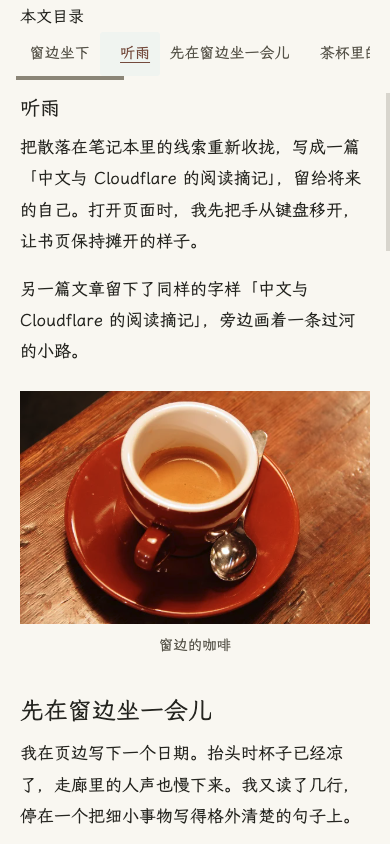
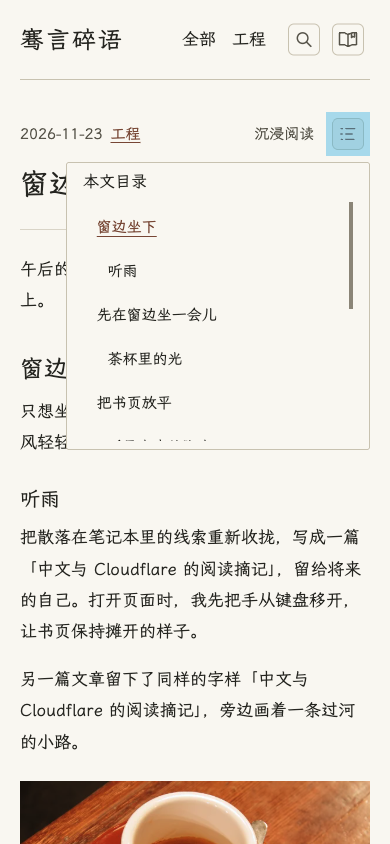
feat: adapt article navigation to narrow screens

diff --git a/docs/m5.3/README.md b/docs/m5.3/README.md
@@ -8,8 +8,8 @@
 | --- | --- |
 | [段落分享入口](../../src/components/ParagraphShare.astro) · [定位规则](../../src/lib/paragraph-share.ts) | 从单段选择生成版本化 URL 片段，包含段落序号、段内偏移、所选文字以及前后最多 24 个 Unicode 字符。首选完整上下文，经编辑后可回退到至少一侧足够长且唯一的上下文。重复匹配、上下文不足或已删除内容留在当前页面。 |
 | [文章列表](../../src/components/PostList.astro) · [归档位置](../../src/components/ArchivePosition.astro) | 默认使用原生 History 和 BFCache。当前历史条目保存路由、视图、文章 ID 和相对视口坐标，从文章返回且布局有变化时校正一次。切换卡片与列表仍锚定同一文章。 |
-| [文章详情](../../src/pages/posts/%5Bslug%5D.astro) · [站点布局](../../src/layouts/Site.astro) | 文章页提供沉浸阅读开关，localStorage 记忆选择，首屏从本地偏好应用。隐藏导航与侧栏，切换前后测量可见正文块位置并补偿滚动。 |
-| [目录](../../src/components/ArticleContents.astro) · [阅读设置](../../src/components/ReadingSettings.astro) | 复用文章侧栏和目录联动。宽屏鼠标环境可用迷你目录，触屏使用完整目录与至少 44 × 44 px 的链接热区。末段与直接锚点优先核对真实章节位置。 |
+| [文章详情](../../src/pages/posts/%5Bslug%5D.astro) · [站点布局](../../src/layouts/Site.astro) | 沉浸阅读记忆本地偏好，切换时补偿正文滚动。低于 1180 px 时在文末居中展示相邻文章和去首页。相邻文章按首页顺序确定，首末篇省去没有对应文章的方向。 |
+| [目录](../../src/components/ArticleContents.astro) · [阅读设置](../../src/components/ReadingSettings.astro) | 低于 960 px 时，日期行右端的按钮打开原生 Popover。浮层通常高 288 px，在短视口内会收缩，内容可独立纵向滚动。侧栏与浮层复用同一份目录。触屏及浮层链接至少高 44 px，宽屏鼠标环境可用迷你目录。 |
 | [搜索](../../src/components/SiteSearch.astro) · [灯箱](../../src/lib/image-viewer.ts) | 沉浸模式保留 `/` 搜索入口。顶层弹窗打开时其余阅读操作让位，关闭后恢复原焦点。灯箱在开场动画还未结束时收到关闭操作，会在动画完成后关闭。 |
 | [静态回归](../../tests/site.test.mjs) | 覆盖真实剪贴板写入、链接定位、归档返回、跨文章阅读偏好、触控目录及搜索和灯箱。 |
 
@@ -20,9 +20,9 @@
 - 桌面通过鼠标拖选中英文混排片段。静态回归使用 Chromium 剪贴板权限验证实际复制，并确认原生文本选区保留。Ego Lite 验证直接打开、刷新、段落插入后恢复、歧义及未找到时原地停留。
 - 首页图文卡片和分类标题列表通过 BFCache 返回，目标卡片或标题的相对视口坐标完全复原。前进及主动打开归档遵循浏览器行为。详情中从卡片切换到列表后返回，目标文章的相对坐标由 242.38 px 恢复为 242.47 px。
 - 桌面沉浸模式正文宽 700 px，刷新和跨文章导航保留偏好。桌面退出时观测段落的垂直偏差为 0.06 px。在 390 px 触屏模拟中，正文宽 350 px，退出按钮高 44 px。沉浸模式内搜索「媒体同步」获得原有文章结果。照片灯箱打开时，`/` 不会叠加搜索。
-- 390 px 触屏目录链接实测 60.30 × 44 px，纵向偏移 6 px 后仍单击跳转至预期 H3。H2–H6 目录、短文无目录、已发布文章侧栏与滚动记忆继续由静态浏览器回归覆盖。
+- 390 px 触屏上，目录按钮实测 44 × 44 px。滑动展开后的目录时，正文维持原位，点选章节后目录收起并高亮对应章节。三个文末链接的整体中心为 195 px。768 px 验证了键盘展开、Escape 收起和焦点恢复，1024 px 保留右侧目录，1440 px 保留全部文章侧栏和 700 px 版心。
 - 首次访问正文未请求 Pagefind 或 PhotoSwipe Core。检查样本记录 0 条 Console 错误或警告、0 个失败资源请求。无近期输入的布局偏移记录中，桌面文章为 0、分类列表约 0.00054、移动样本约 0.01809。 [浏览器记录](browser.json)
-- 媒体及字体校验、类型检查、37 项自动化测试与完整生产构建均通过。类型检查有两条既有输入法兼容提示。
+- 媒体及字体校验、类型检查、38 项自动化测试与完整生产构建均通过。类型检查有两条既有输入法兼容提示。
 
 移动端目录点击和分享浮层分别通过 Chromium 触控与原生 Selection Range 验证。桌面 Chromium 触控模拟未产生系统长按选区，实体手机上的原生选区手柄与系统菜单留待设备复核。验收范围内未发现阻塞缺陷。
 
@@ -32,11 +32,11 @@
 
 | 路由 | 新增 minify 字节 | 新增 gzip 字节 | 新增脚本请求 |
 | --- | ---: | ---: | ---: |
-| 首页和分类文章列表 | 1,858 | 1,013 | 0 |
-| 有图文章 | 6,419 | 3,043 | 1 |
-| 无图文章 | 6,385 | 3,017 | 1 |
+| 首页和分类文章列表 | 2,070 | 1,081 | 0 |
+| 有图且有目录的文章 | 7,615 | 3,381 | 1 |
+| 无图且无目录的文章 | 6,782 | 3,119 | 1 |
 
-段落分享模块在浏览器中实际 gzip 传输 2,190 B，仅文章详情页加载。PhotoSwipe 的关闭行为补丁在原动态模块中增加 152 B，gzip 后增加 35 B。
+段落分享模块在浏览器中实际 gzip 传输 2,177 B，仅文章详情页加载。PhotoSwipe 的关闭行为补丁在原动态模块中增加 152 B，gzip 后增加 35 B。
 
 ## 真实浏览器截图
 
@@ -44,6 +44,7 @@
 - [桌面深色 · 定位段落高亮](screenshots/desktop-highlight-dark.png)
 - [桌面深色 · 700 px 沉浸阅读](screenshots/desktop-immersive-dark.png)
 - [首页 · 返回图文卡片](screenshots/archive-return-cards.png)
-- [移动浅色 · 完整目录](screenshots/mobile-outline-light.png)
+- [移动浅色 · 日期行目录浮层](screenshots/mobile-outline-light.png)
+- [移动浅色 · 文末翻页链接](screenshots/mobile-pagination-light.png)
 - [移动深色 · 段落分享](screenshots/mobile-share-dark.png)
 - [移动浅色 · 沉浸模式](screenshots/mobile-immersive-light.png)
